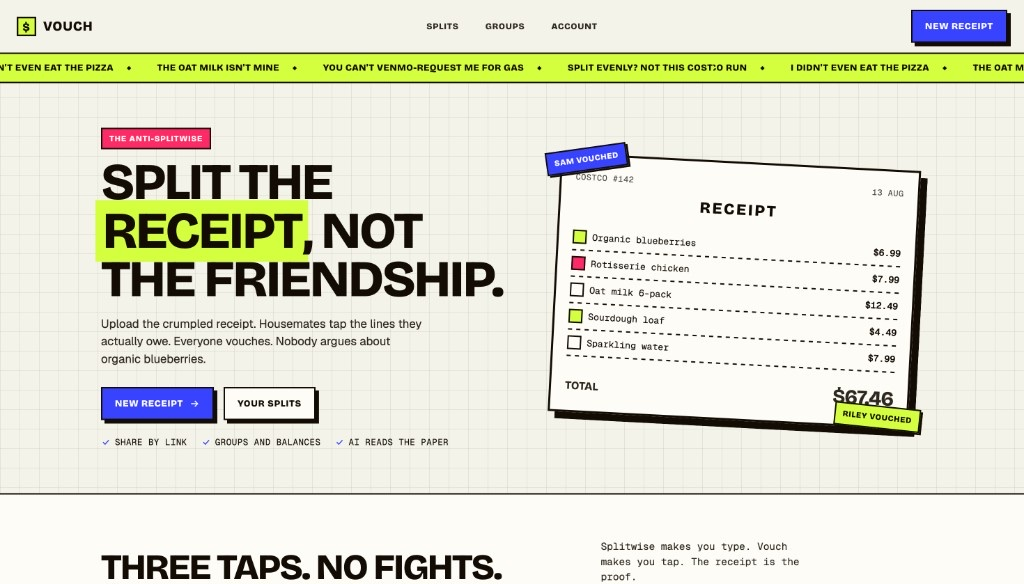
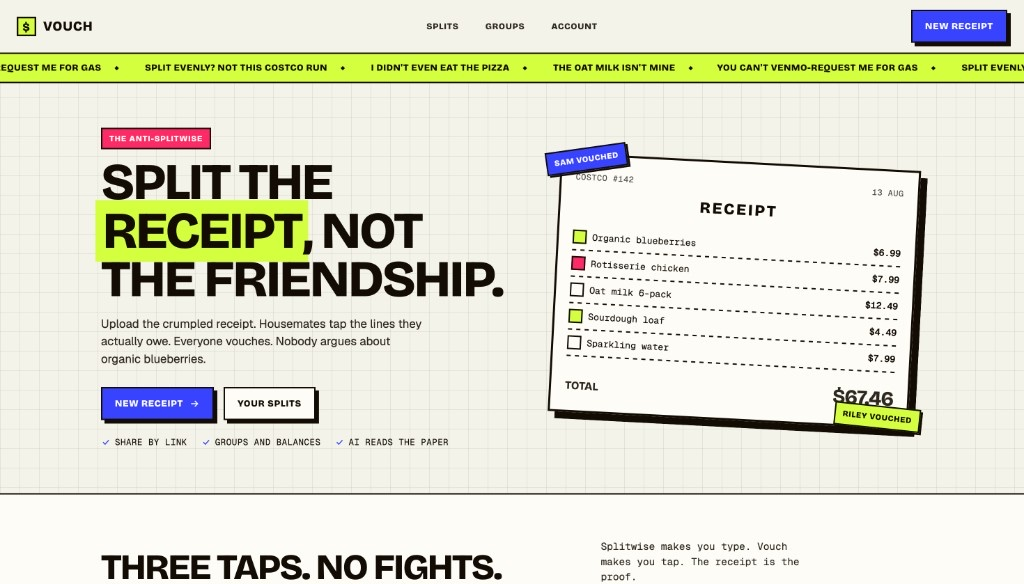
fix: use full Vouch cover and stop clipping the hero

Changed region(s): [[0.0, 0.0925, 0.9062, 0.1233], [0.9375, 0.0925, 1.0, 0.1233]]

diff --git a/src/components/ProjectsHome.tsx b/src/components/ProjectsHome.tsx
@@ -37,7 +37,7 @@ export function ProjectsHome() {
                 href={product.liveUrl}
                 target="_blank"
                 rel="noopener noreferrer"
-                className="group relative aspect-[16/10] overflow-hidden rounded-sm border border-foreground/10 bg-muted shadow-[0_10px_30px_-12px_rgba(20,16,12,0.18)]"
+                className="group relative aspect-[16/9] overflow-hidden rounded-sm border border-foreground/10 bg-muted shadow-[0_10px_30px_-12px_rgba(20,16,12,0.18)]"
                 aria-label={`Open ${product.name} live site`}
               >
                 <Image
@@ -45,7 +45,7 @@ export function ProjectsHome() {
                   alt={`${product.name} product screenshot`}
                   fill
                   sizes="(max-width: 768px) 100vw, 55vw"
-                  className="object-cover object-top transition-transform duration-300 group-hover:scale-[1.02]"
+                  className="object-cover object-center transition-transform duration-300 group-hover:scale-[1.02]"
                 />
               </a>
 

diff --git a/src/app/work/[slug]/page.tsx b/src/app/work/[slug]/page.tsx
@@ -132,7 +132,7 @@ export default async function WorkCaseStudyPage({ params }: Props) {
             href={product.liveUrl}
             target="_blank"
             rel="noopener noreferrer"
-            className="relative mb-10 block aspect-[16/10] overflow-hidden rounded-sm border border-foreground/10 bg-muted shadow-[0_10px_30px_-12px_rgba(20,16,12,0.18)] transition-opacity hover:opacity-95"
+            className="relative mb-10 block aspect-[16/9] overflow-hidden rounded-sm border border-foreground/10 bg-muted shadow-[0_10px_30px_-12px_rgba(20,16,12,0.18)] transition-opacity hover:opacity-95"
             aria-label={`Open ${product.name} live site`}
           >
             <Image
@@ -141,7 +141,7 @@ export default async function WorkCaseStudyPage({ params }: Props) {
               fill
               priority
               sizes="(max-width: 768px) 100vw, 768px"
-              className="object-cover object-top"
+              className="object-cover object-center"
             />
           </a>
 
